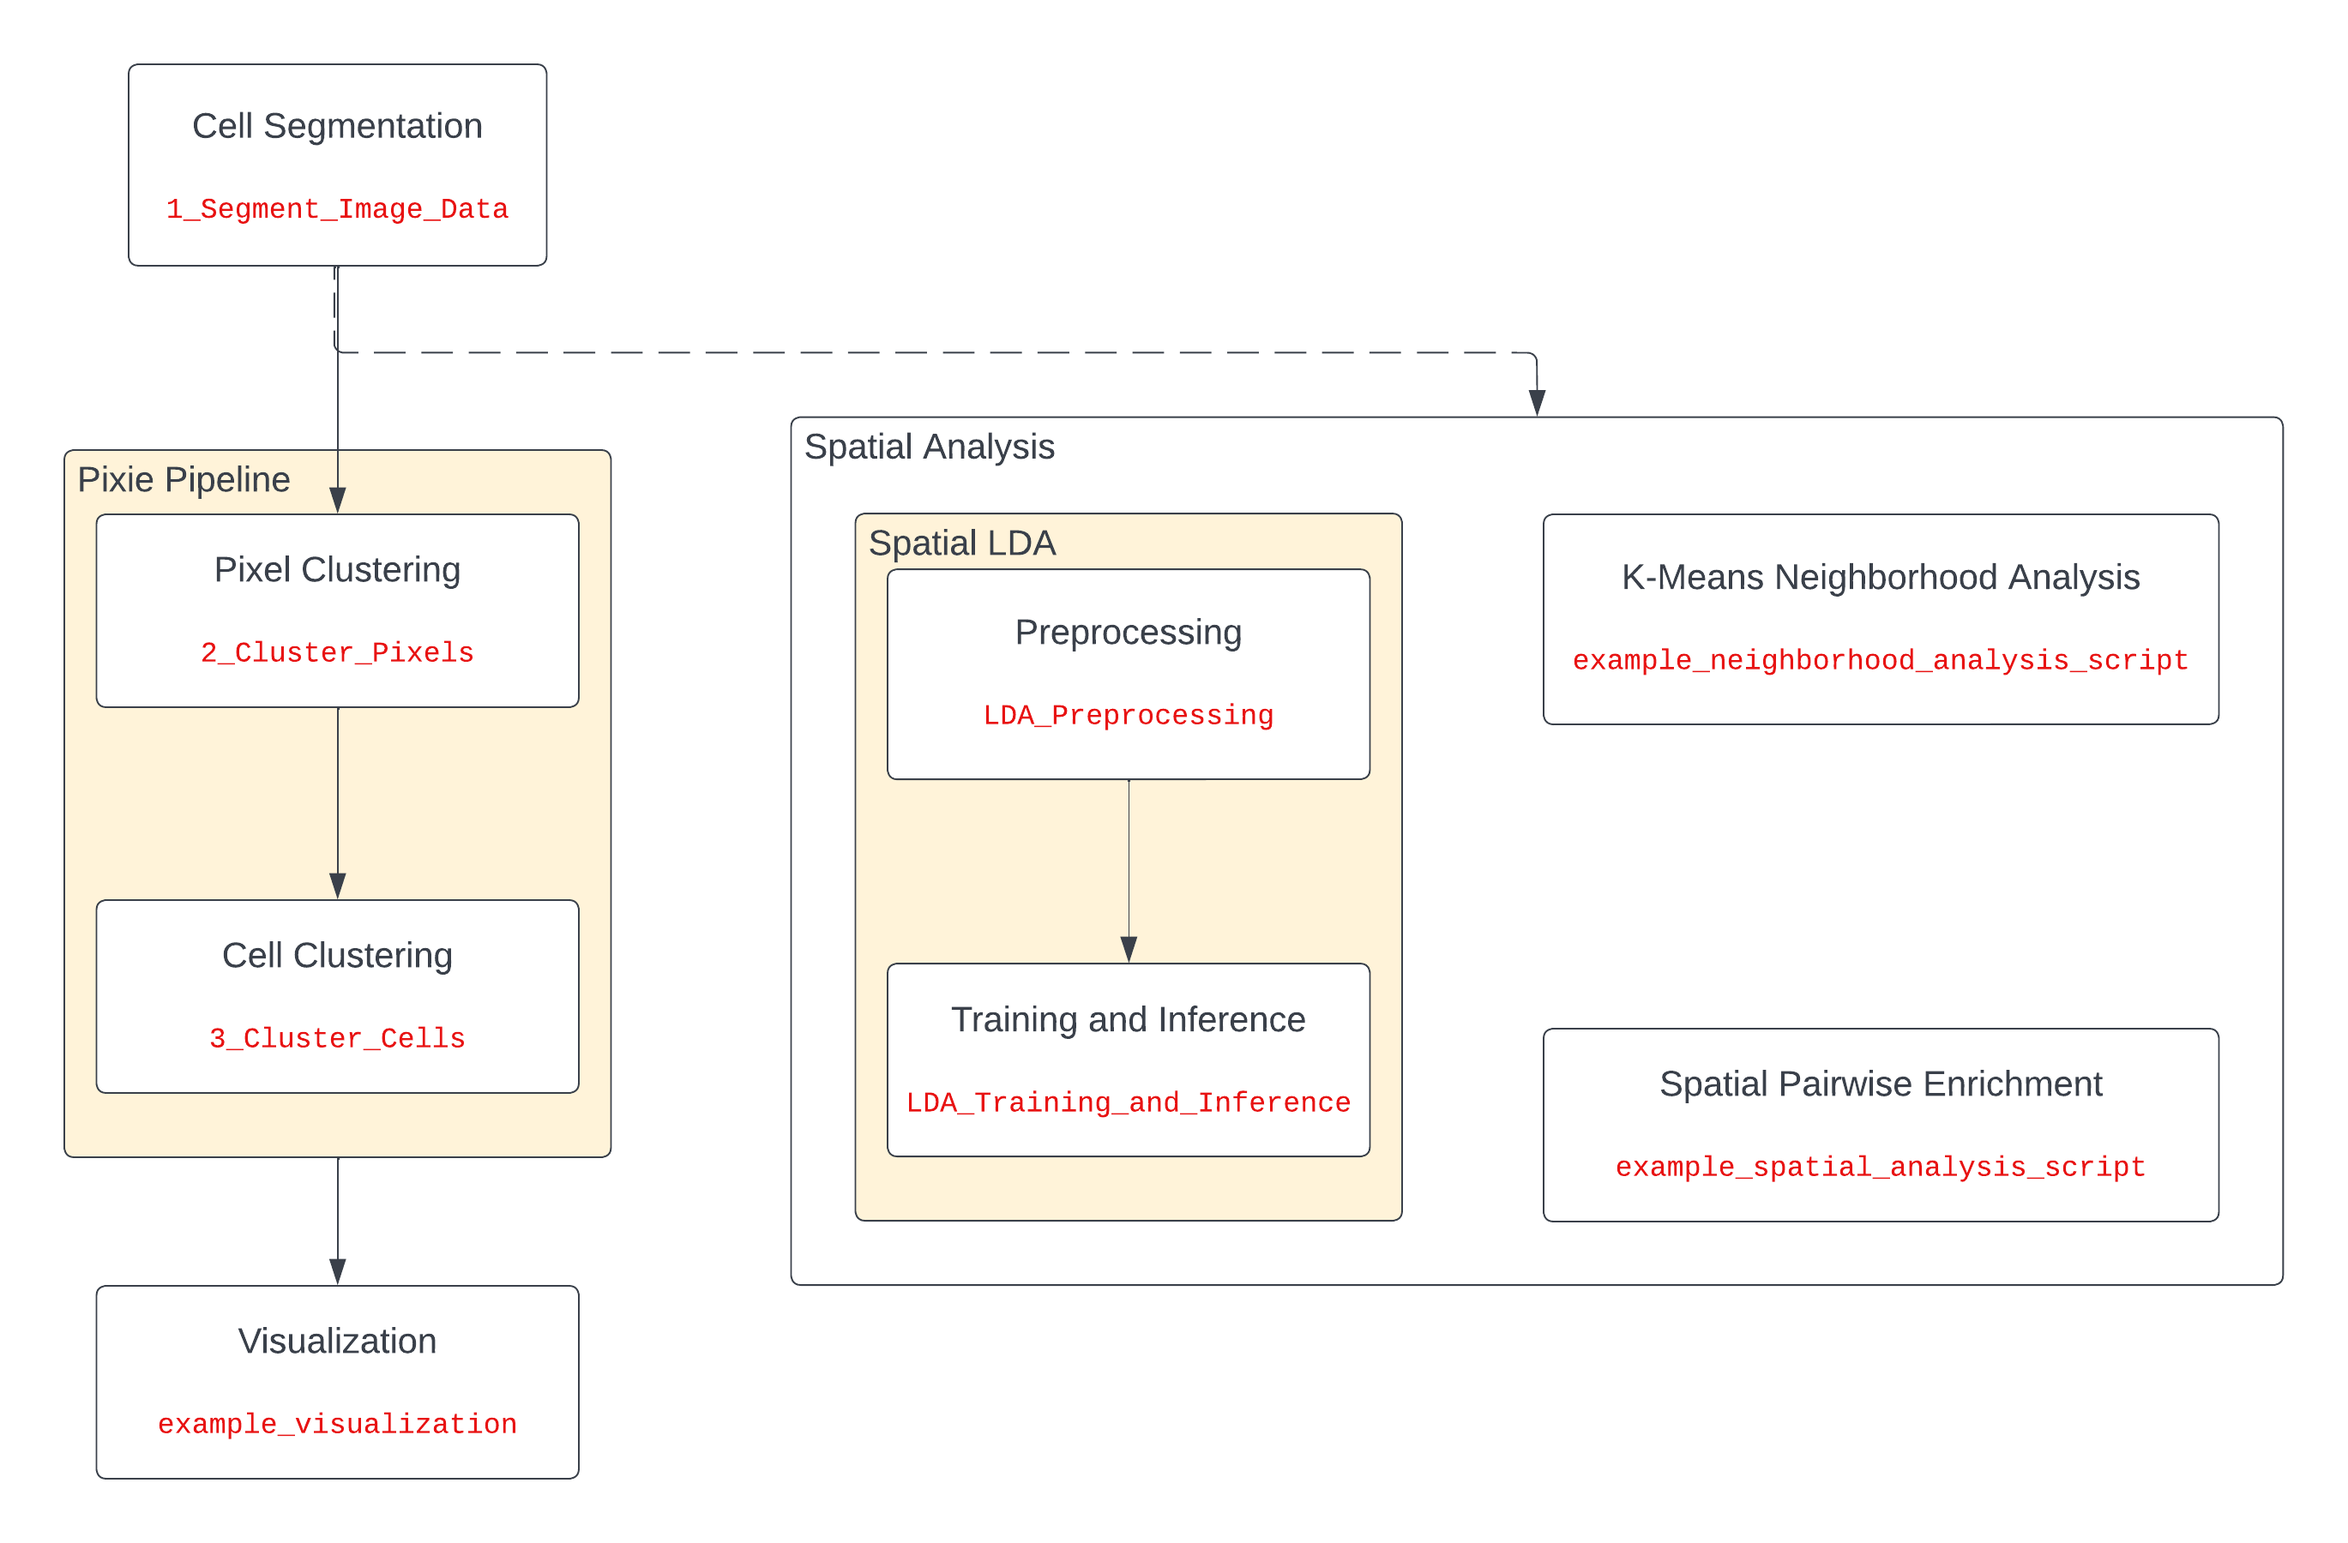
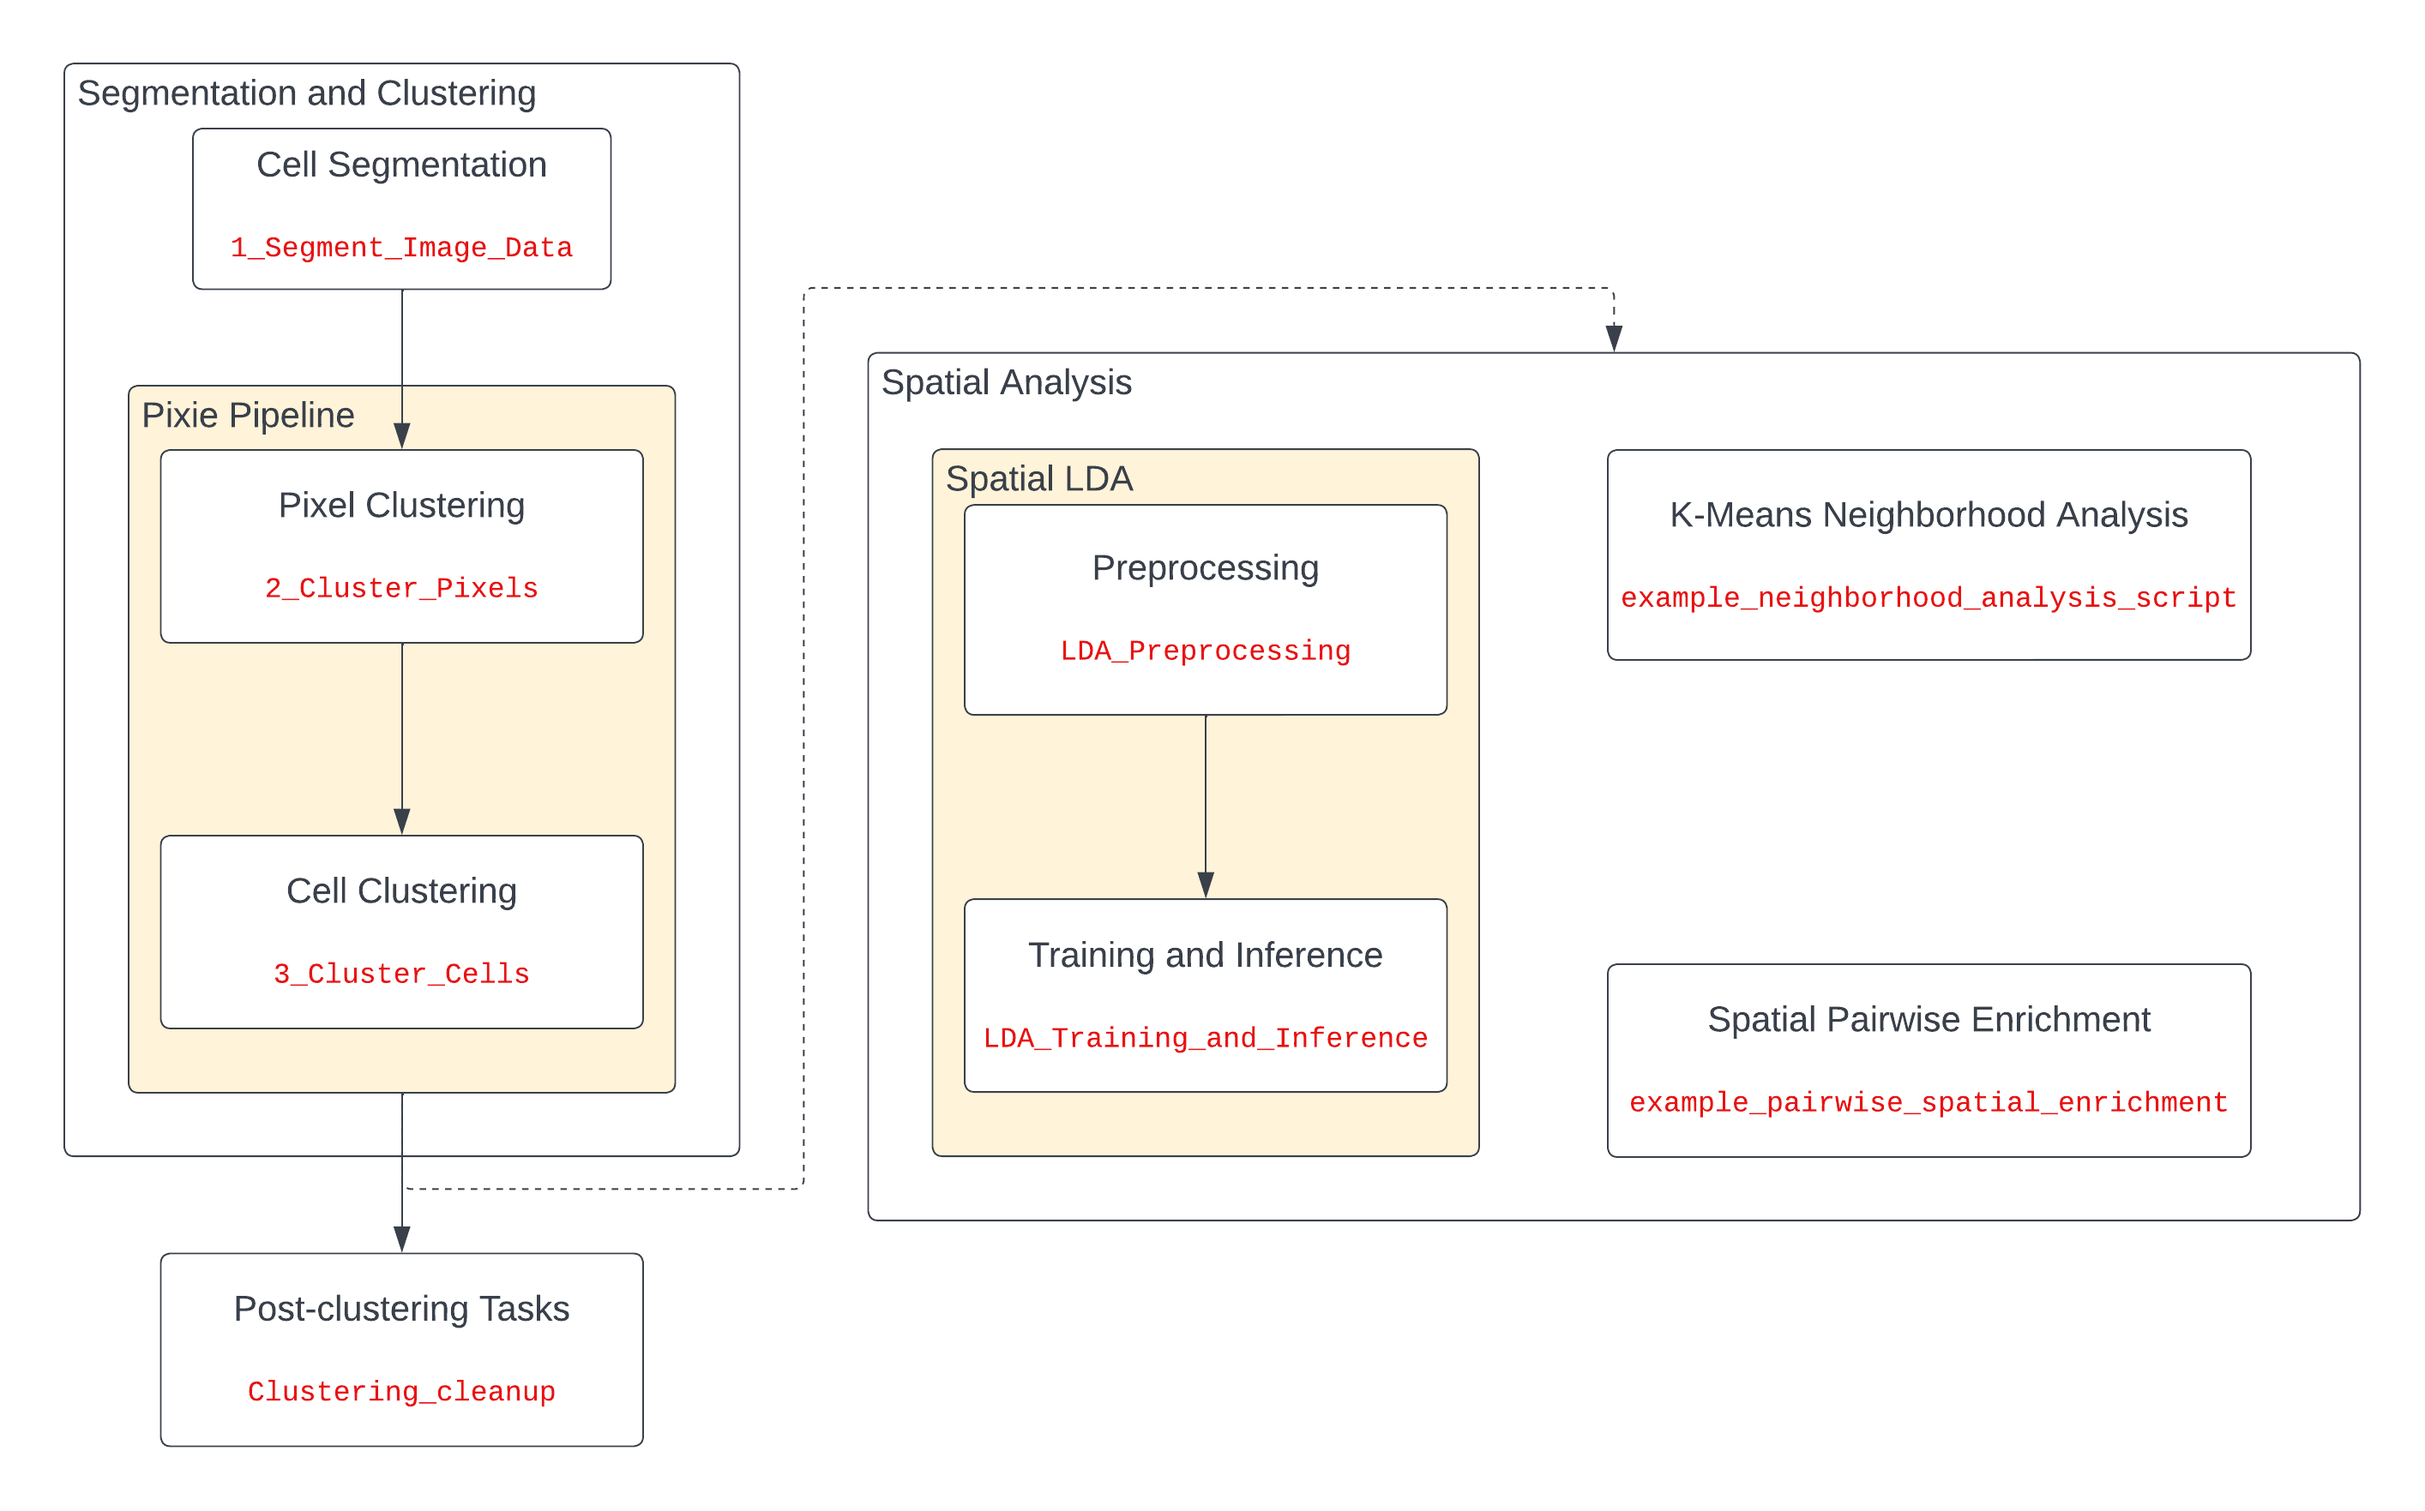
adjusted notebook name, updated flowchart

diff --git a/ark/utils/notebooks_test.py b/ark/utils/notebooks_test.py
@@ -35,8 +35,8 @@ def test_segment_image_data():
     _exec_notebook('Segment_Image_Data.ipynb', 'templates_ark')
 
 
-def test_example_spatial_analysis():
-    _exec_notebook('example_spatial_analysis_script.ipynb', 'templates_ark')
+def test_example_pairwise_spatial_enrichment():
+    _exec_notebook('example_pairwise_spatial_enrichment.ipynb', 'templates_ark')
 
 
 def test_example_neighborhood_analysis():
